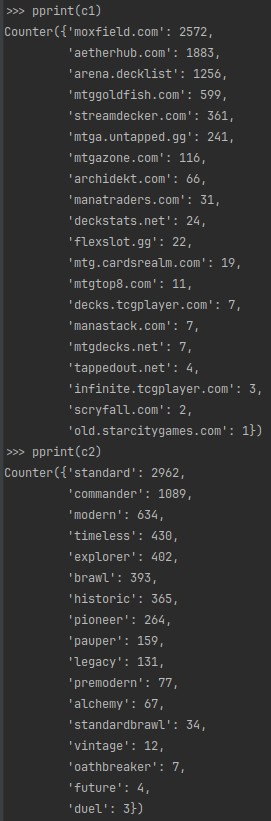
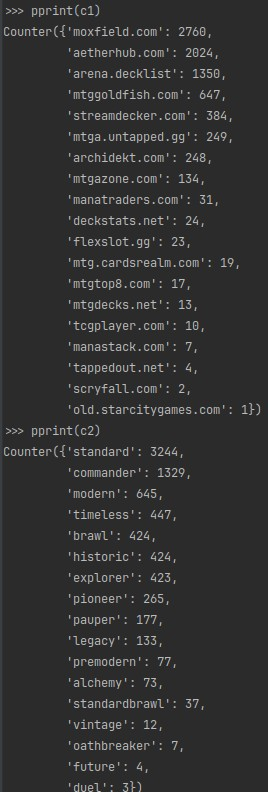
Minor changes

diff --git a/mtgcards/yt.py b/mtgcards/yt.py
@@ -142,17 +142,15 @@ class ChannelData:
         return len(self.decks) / len(self.videos)
 
 
-def channels() -> Generator[tuple[str, str], None, None]:
-    """Yield a tuple (channel name, channel addresses) from a private Google Sheet spreadsheet.
+def retrieve_urls() -> list[str]:
+    """Retrieve channel URLs from a private Google Sheet spreadsheet.
 
     Mind that this operation takes about 4 seconds to complete.
     """
-    names, addresses = retrieve_from_gsheets_cols("mtga_yt", "channels", (1, 3), start_row=2)
-    for name, address in zip(names, addresses):
-        yield name, address
+    return retrieve_from_gsheets_cols("mtga_yt", "channels", (3, ), start_row=2)[0]
 
 
-def channels_batch(start_row=2, batch_size: int | None = None) -> Iterator[tuple[str, str]]:
+def channels_batch(start_row=2, batch_size: int | None = None) -> Iterator[str]:
     if start_row < 2:
         raise ValueError("Start row must not be lesser than 2")
     if batch_size is not None and batch_size < 1:
@@ -161,7 +159,7 @@ def channels_batch(start_row=2, batch_size: int | None = None) -> Iterator[tuple
     _log.info(f"Batch updating{txt} channels...")
     start_idx = start_row - 2
     end_idx = None if batch_size is None else start_row - 2 + batch_size
-    return itertools.islice(channels(), start_idx, end_idx)
+    return itertools.islice(retrieve_urls(), start_idx, end_idx)
 
 
 def load_channel(channel_url: str) -> ChannelData:
@@ -201,7 +199,7 @@ def load_channel(channel_url: str) -> ChannelData:
 def load_channels() -> Generator[ChannelData, None, None]:
     """Load channel data for all channels recorded in a private Google Sheet.
     """
-    for _, url in channels():
+    for url in retrieve_urls():
         yield load_channel(url)
 
 
@@ -209,7 +207,7 @@ def update_gsheet() -> None:
     """Update "channels" Google Sheets worksheet.
     """
     data = []
-    for _, url in channels():
+    for url in retrieve_urls():
         try:
             ch = load_channel(url)
             data.append([
@@ -290,7 +288,7 @@ def scrape_non_dormant(videos=25, only_earlier_than_last=True) -> None:
     the scraped data as .json files.
     """
     urls = []
-    for _, url in channels():
+    for url in retrieve_urls():
         data = load_channel(url)
         if not data:
             urls.append(url)
@@ -307,7 +305,7 @@ def scrape_non_abandoned(videos=25, only_earlier_than_last=True) -> None:
     the scraped data as .json files.
     """
     urls = []
-    for _, url in channels():
+    for url in retrieve_urls():
         data = load_channel(url)
         if not data:
             urls.append(url)
@@ -324,7 +322,7 @@ def scrape_dormant(videos=25, only_earlier_than_last=True) -> None:
     the scraped data as .json files.
     """
     urls = []
-    for _, url in channels():
+    for url in retrieve_urls():
         data = load_channel(url)
         if data and data.staleness and data.staleness > DORMANT_STALENESS:
             urls.append(url)
@@ -337,7 +335,7 @@ def scrape_abandoned(videos=25, only_earlier_than_last=True) -> None:
     the scraped data as .json files.
     """
     urls = []
-    for _, url in channels():
+    for url in retrieve_urls():
         data = load_channel(url)
         if data and data.staleness and data.staleness > DORMANT_STALENESS:
             urls.append(url)
@@ -353,6 +351,9 @@ def get_aggregate_deck_data() -> tuple[Counter, Counter]:
     for d in decks:
         src = d["metadata"]["source"]
         src = src.removeprefix("www.") if src.startswith("www.") else src
+        if "tcgplayer" in src:
+            _, *parts = src.split(".")
+            src = ".".join(parts)
         sources.append(src)
     source_counter = Counter(sources)
     format_counter = Counter([d["metadata"]["format"] for d in decks if d["metadata"].get("format")])
